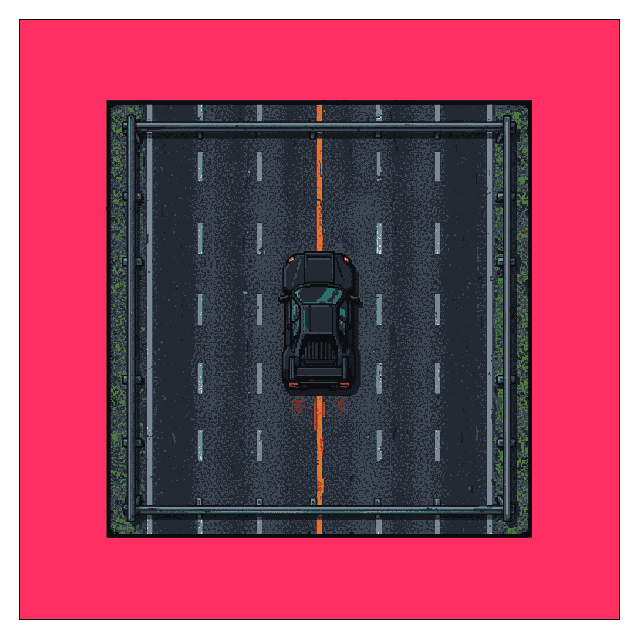
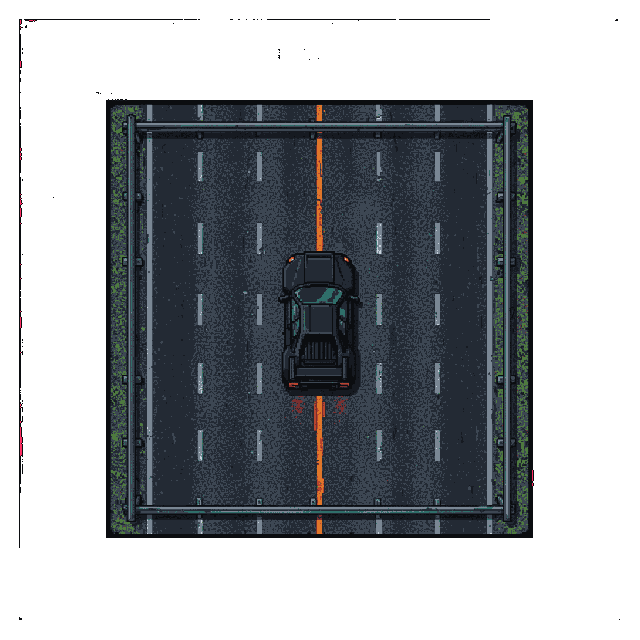
WO-10 fail: stray debris and bloom in keyed anchor

diff --git a/docs/ART_BIBLE.md b/docs/ART_BIBLE.md
@@ -80,13 +80,18 @@ the lowest index wins when two entries are equally close. See `quantize()` in
 `pipeline/lib/image.ts`.
 
 The approved attempt uses 14 of the 16 indices — it does not draw `6 white` or
-`14 violet` — and contains no colour outside this table. The per-index pixel counts behind
-that statement are recorded in `pipeline/work/art-01-style-anchor/attempt-5/palette-usage.json`.
-Most of the `15 hot-pink` count (172,213 of 361,201 opaque pixels) is not sprite pigment:
-attempt 5's flat backdrop is `#ee0466`, which is 174 away from the `#ff00ff` key under
-`chromaKey()`'s tolerance of 90, so the key removed no pixels and the backdrop quantised to
-`15 hot-pink`. Later sheets are judged against this palette, not against this anchor's
-exact index usage.
+`14 violet` — and contains no colour outside this table after quantisation. The per-index
+pixel counts behind that statement are recorded in
+`pipeline/work/art-01-style-anchor/attempt-5/palette-usage.json`.
+
+Of the 409,600 pixels in the 640 × 640 cell, 188,609 are opaque and 220,991 (53.9%) are
+transparent. Attempt 5's backdrop is `#ee0466`, which is 174 away from the `#ff00ff` key —
+outside `chromaKey()`'s single-colour tolerance — but it is the flat region touching the
+image border, so the border-connected flood fill keys it anyway. Only 123 `15 hot-pink`
+pixels survive, and none of them is sprite pigment: 109 sit on stray marks to the left of
+the plate (x 20–34, all outside the plate) and 14 form two thin vertical ticks on the
+plate's right edge at x = 532. Later sheets are judged against this palette, not against
+this anchor's exact index usage.
 
 ## 4. Iconography of the factions
 

diff --git a/gauntlet/verdicts/WO-10.round-3.md b/gauntlet/verdicts/WO-10.round-3.md
@@ -1,0 +1,9 @@
+# WO-10 — Art slot 01: style anchor
+
+- verdict: **FAIL**
+- round: 3
+- at: 2026-11-07T21:17:39.014Z
+
+## Reviewer note
+
+palette 2 / consistency 2 / background 1: stray debris + bloom + speckle; third round used
